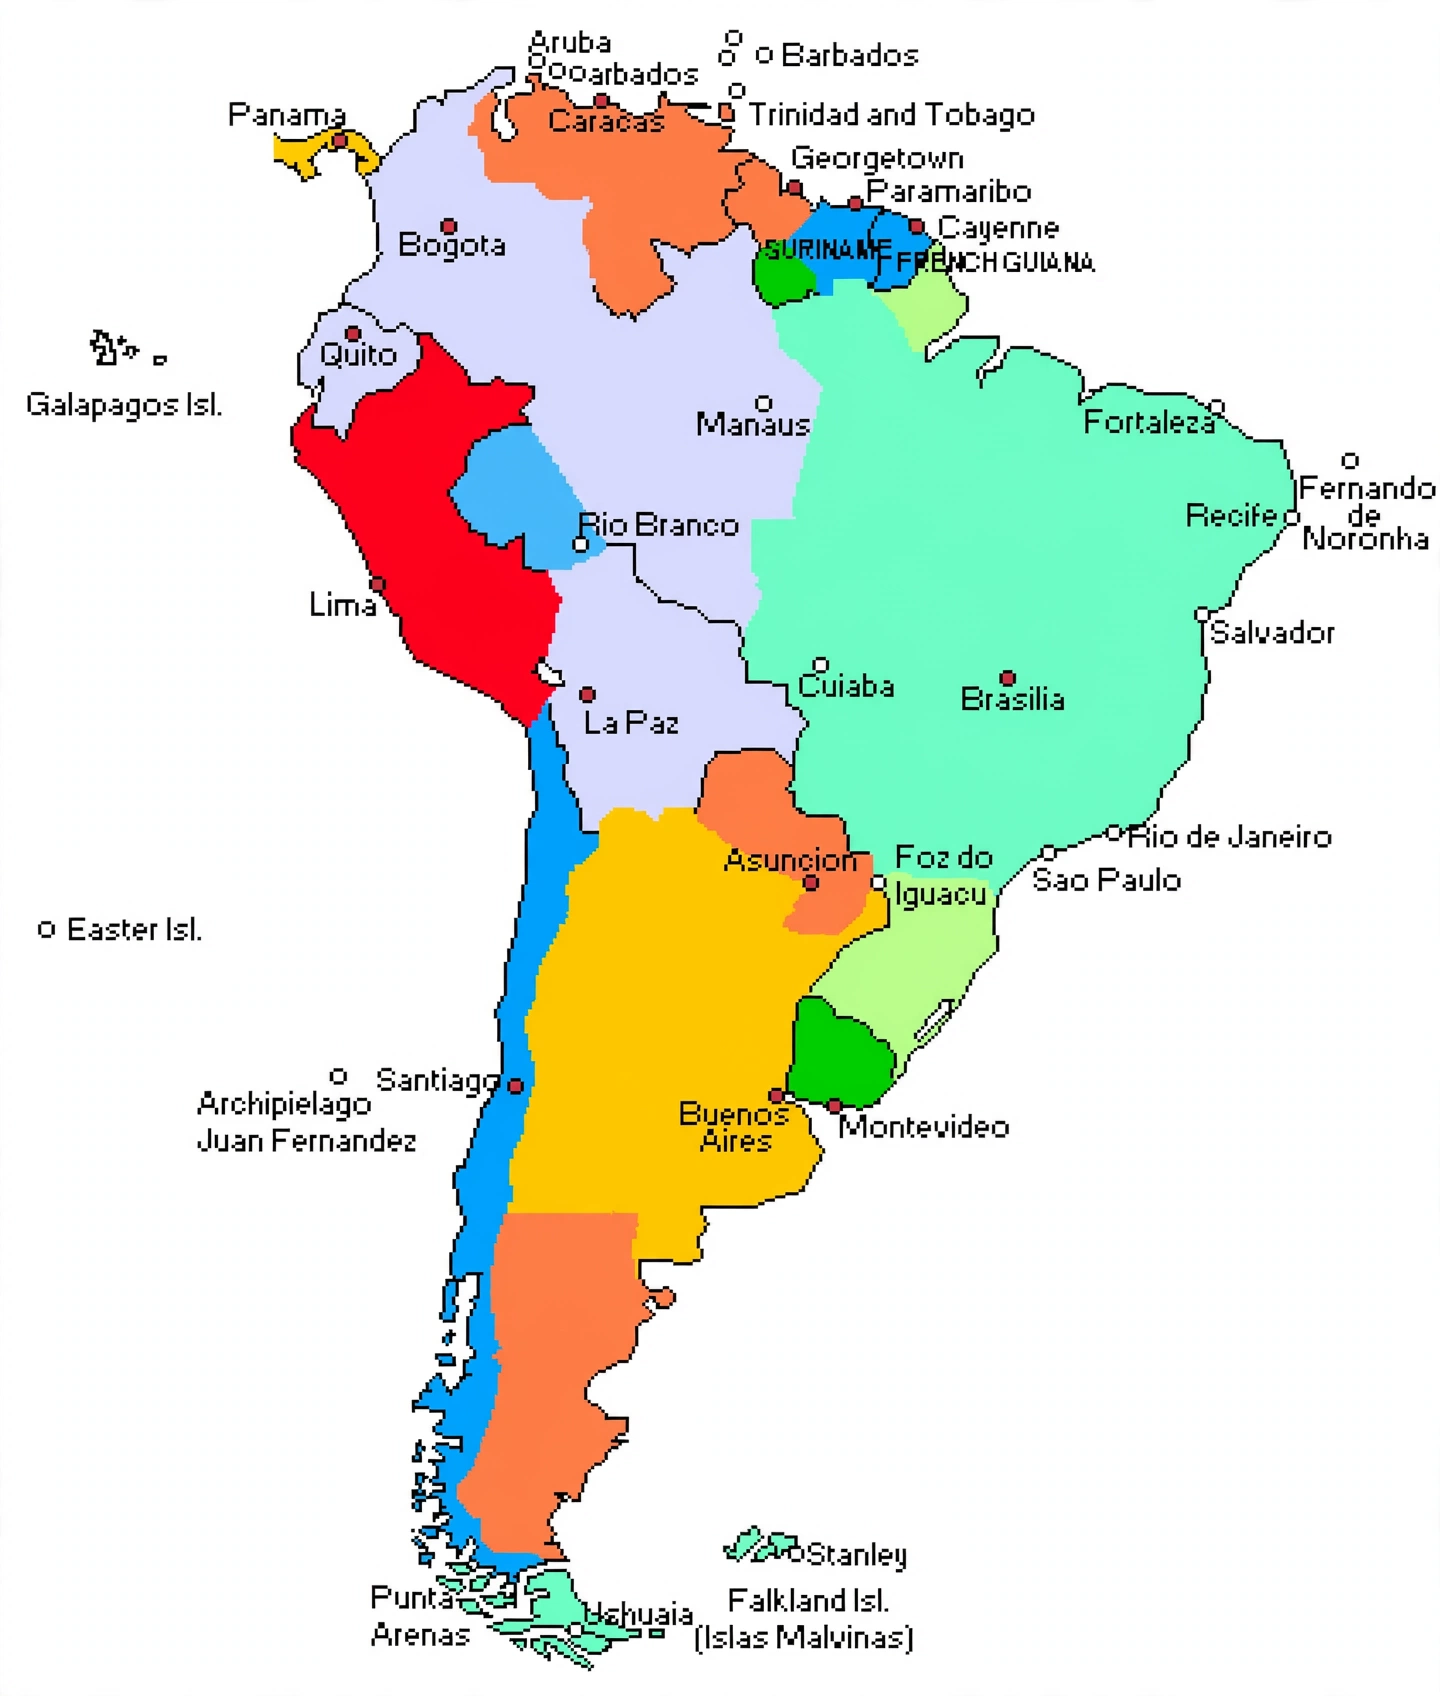
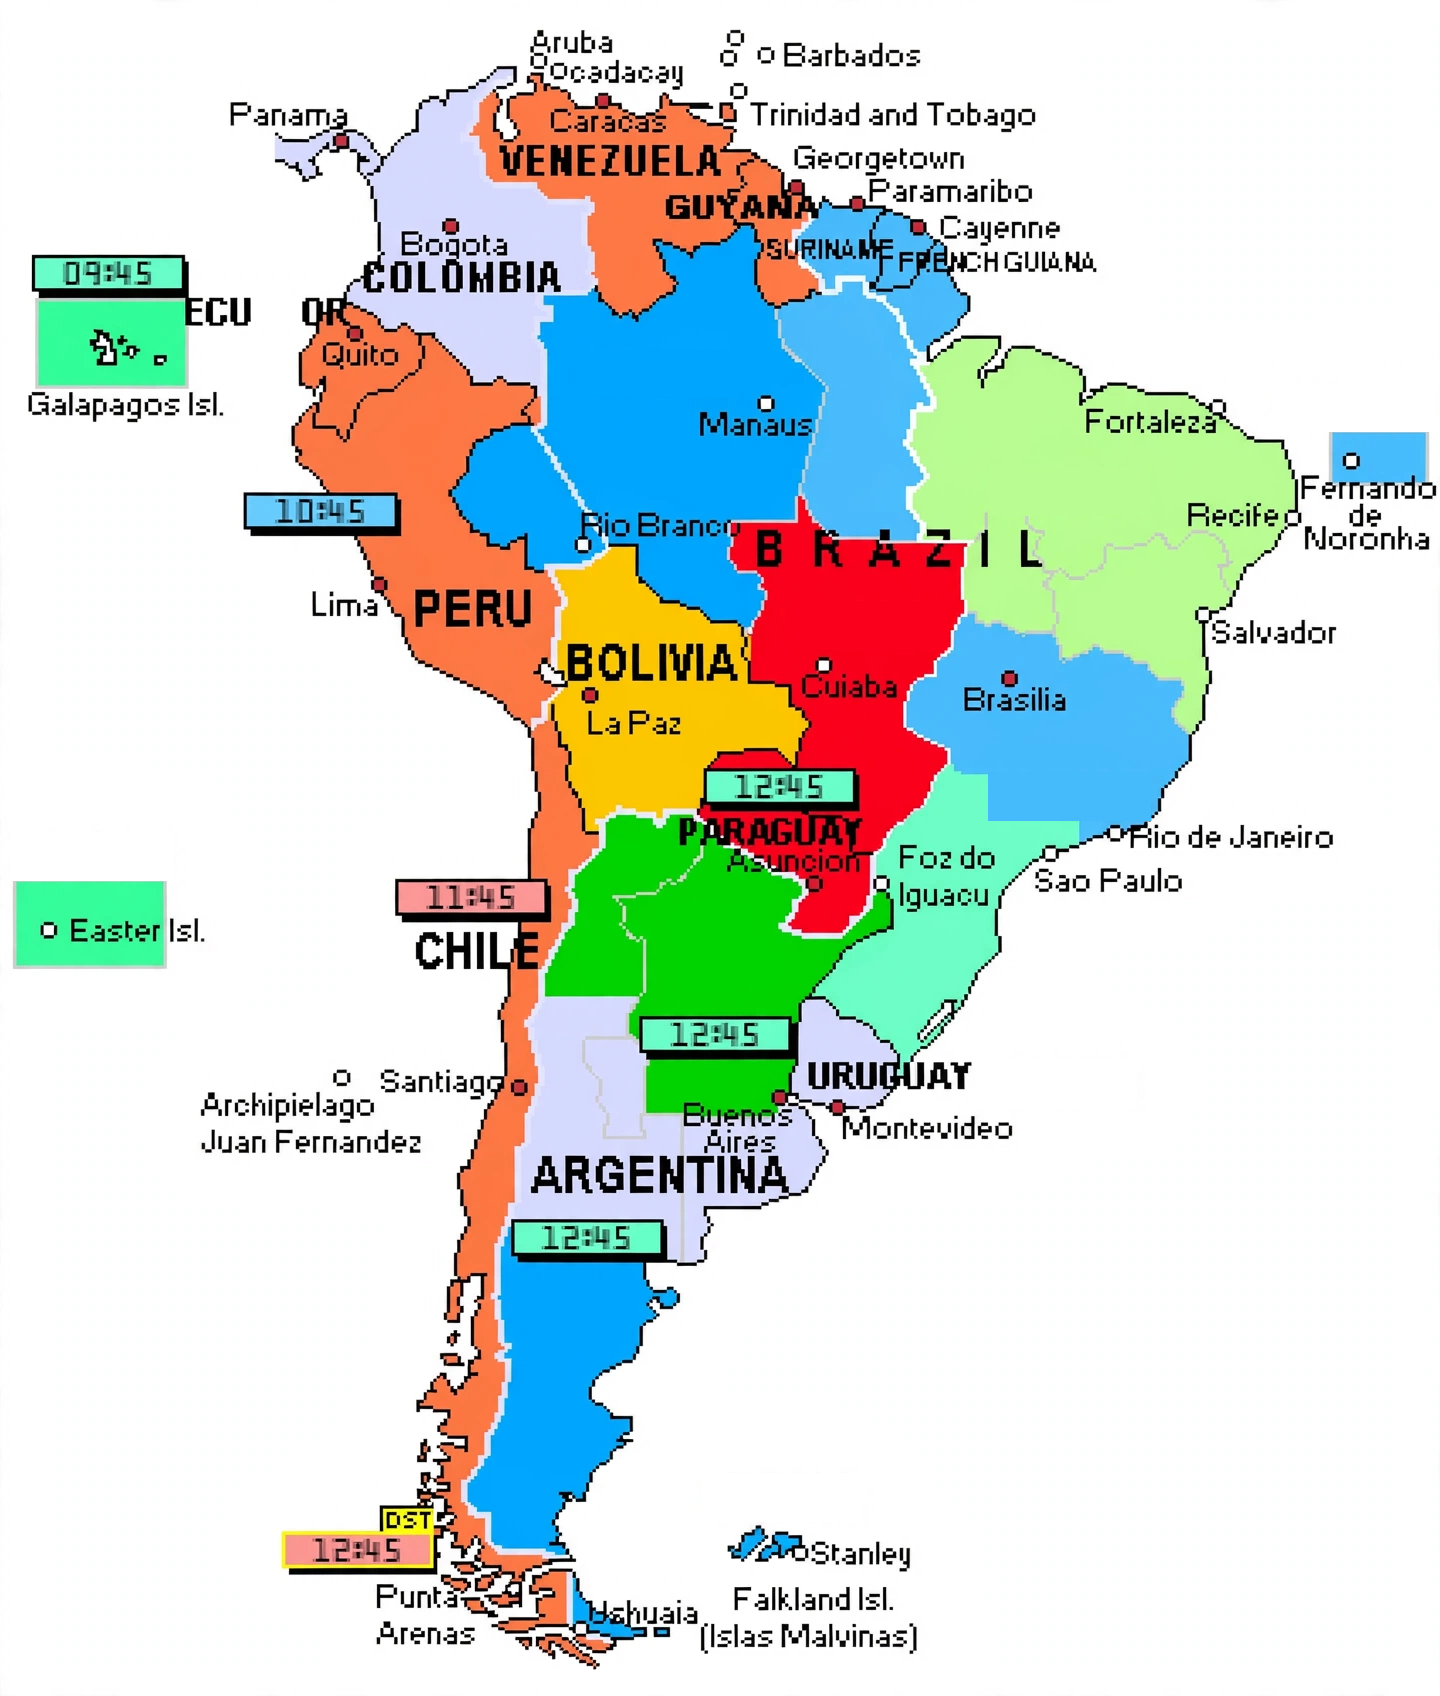
evidence: South America recovered, furniture cleared in code
South America's names were lost in pass A, not pass C -- the first pass kept
only 49% of the source's body ink, so the names were gone before the recolour
ever ran, and every pass-C retry was faithfully preserving a broken input. Five
fresh pass-A attempts, keeping the one with the most surviving type, took body
ink from 4.08% to 7.55% and brought the names back. The recolour then passed the
gate at 102% and the furniture pass at 92%.

Furniture clearing moves into code for the sheets generation cannot do it on.
A readout box is a closed black rectangular frame around one flat colour plus
digits -- a shape a script finds exactly, and one no coastline forms, because a
coastline's bounding-box perimeter is mostly empty where a frame's is nearly
solid. Interior uniformity is bounded at both ends: below it is map detail,
above it is a solid country that must not be erased.

Boxes are painted out in the colour that surrounds them, not white. Filling
blind left white holes in Brazil where a readout had been sitting over land.

Claude-Session: https://claude.ai/code/session_012wpXKb6J2m7SrnstwSPgwW

diff --git a/scripts/map_clear_furniture.py b/scripts/map_clear_furniture.py
@@ -1,0 +1,101 @@
+#!/usr/bin/env python3
+"""Erase a map's clock/attribution boxes without a generation pass.
+
+Pass C is the wrong tool for this. On the South America sheet it removed the
+country names every single time -- four of four attempts, all scoring ~77% on
+the type gate -- so it is systematic, not bad luck. On Asia the content filter
+blocked all six attempts, so the pass cannot run there at all.
+
+A furniture box is a closed black rectangular frame, which is a shape a script
+can find exactly. Coastlines and borders never form one: their bounding-box
+perimeter is mostly empty, a frame's is nearly solid.
+"""
+from __future__ import annotations
+
+import argparse
+from pathlib import Path
+
+import numpy as np
+from PIL import Image
+from scipy import ndimage
+
+
+def frame_boxes(arr: np.ndarray, min_side: int = 20, min_width: int = 44,
+                max_frac: float = 0.42, perimeter_fill: float = 0.55,
+                min_aspect: float = 1.4) -> list[tuple[int, int, int, int]]:
+    """Bounding boxes of closed rectangular frames.
+
+    Loosening the perimeter test to catch small UTC boxes made letters qualify:
+    a capital O or D is also a closed loop with a full perimeter. Furniture is
+    additionally *wide* -- a readout box is at least 60 px across and wider than
+    it is tall -- and no glyph on these maps is.
+    """
+    ink = arr.max(axis=2) < 110
+    labels, _ = ndimage.label(ink, structure=np.ones((3, 3)))
+    h, w = ink.shape
+    found = []
+    for index, (sl_y, sl_x) in enumerate(ndimage.find_objects(labels), start=1):
+        bh, bw = sl_y.stop - sl_y.start, sl_x.stop - sl_x.start
+        if bh < min_side or bw < min_width or bw < bh * min_aspect:
+            continue
+        if bh > h * max_frac or bw > w * max_frac:
+            continue                                  # too big to be furniture
+        comp = labels[sl_y, sl_x] == index
+        edge = np.concatenate([comp[0, :], comp[-1, :], comp[:, 0], comp[:, -1]])
+        if edge.mean() < perimeter_fill:              # a coastline, not a frame
+            continue
+        # A readout box is a frame around one flat colour plus digits. A country
+        # that happens to be boxy is not: its interior carries other borders and
+        # coastline, so it is never this uniform.
+        inner = arr[sl_y.start + 3:sl_y.stop - 3, sl_x.start + 3:sl_x.stop - 3]
+        if inner.size == 0:
+            continue
+        flat = inner.reshape(-1, 3)
+        dominant = max(np.unique(flat // 24, axis=0, return_counts=True)[1]) / len(flat)
+        # A readout's interior is part flat fill and part digits, so its
+        # uniformity sits in a band. Below it is map detail; at the top end is a
+        # solid block of one country, which must not be erased.
+        if 0.30 <= dominant <= 0.86:
+            found.append((sl_x.start, sl_y.start, sl_x.stop, sl_y.stop))
+    return found
+
+
+def main() -> int:
+    ap = argparse.ArgumentParser()
+    ap.add_argument("--image", required=True, type=Path)
+    ap.add_argument("--out", required=True, type=Path)
+    ap.add_argument("--pad", type=int, default=3)
+    ap.add_argument("--dry-run", action="store_true")
+    args = ap.parse_args()
+
+    img = Image.open(args.image).convert("RGB")
+    arr = np.asarray(img).astype(int)
+    h, w, _ = arr.shape
+    boxes = frame_boxes(arr)
+    for x0, y0, x1, y1 in boxes:
+        if args.dry_run:
+            continue
+        gy0, gy1 = max(0, y0 - args.pad), min(h, y1 + args.pad)
+        gx0, gx1 = max(0, x0 - args.pad), min(w, x1 + args.pad)
+        # Paint the box out in whatever surrounds it, not in white. A readout
+        # sitting over Brazil left a white hole in Brazil when filled blind.
+        ry0, ry1 = max(0, gy0 - 6), min(h, gy1 + 6)
+        rx0, rx1 = max(0, gx0 - 6), min(w, gx1 + 6)
+        ring = np.concatenate([
+            arr[ry0:gy0, rx0:rx1].reshape(-1, 3), arr[gy1:ry1, rx0:rx1].reshape(-1, 3),
+            arr[ry0:ry1, rx0:gx0].reshape(-1, 3), arr[ry0:ry1, gx1:rx1].reshape(-1, 3)])
+        if len(ring):
+            colours, counts = np.unique(ring, axis=0, return_counts=True)
+            arr[gy0:gy1, gx0:gx1] = colours[counts.argmax()]
+        else:
+            arr[gy0:gy1, gx0:gx1] = (255, 255, 255)
+    if not args.dry_run:
+        args.out.parent.mkdir(parents=True, exist_ok=True)
+        Image.fromarray(arr.astype("uint8")).save(args.out)
+    print(f"{args.image.parts[-3] if len(args.image.parts) > 2 else args.image.name:14s} "
+          f"{len(boxes)} frame(s): {[(x1-x0, y1-y0) for x0, y0, x1, y1 in boxes][:6]}")
+    return 0
+
+
+if __name__ == "__main__":
+    raise SystemExit(main())
